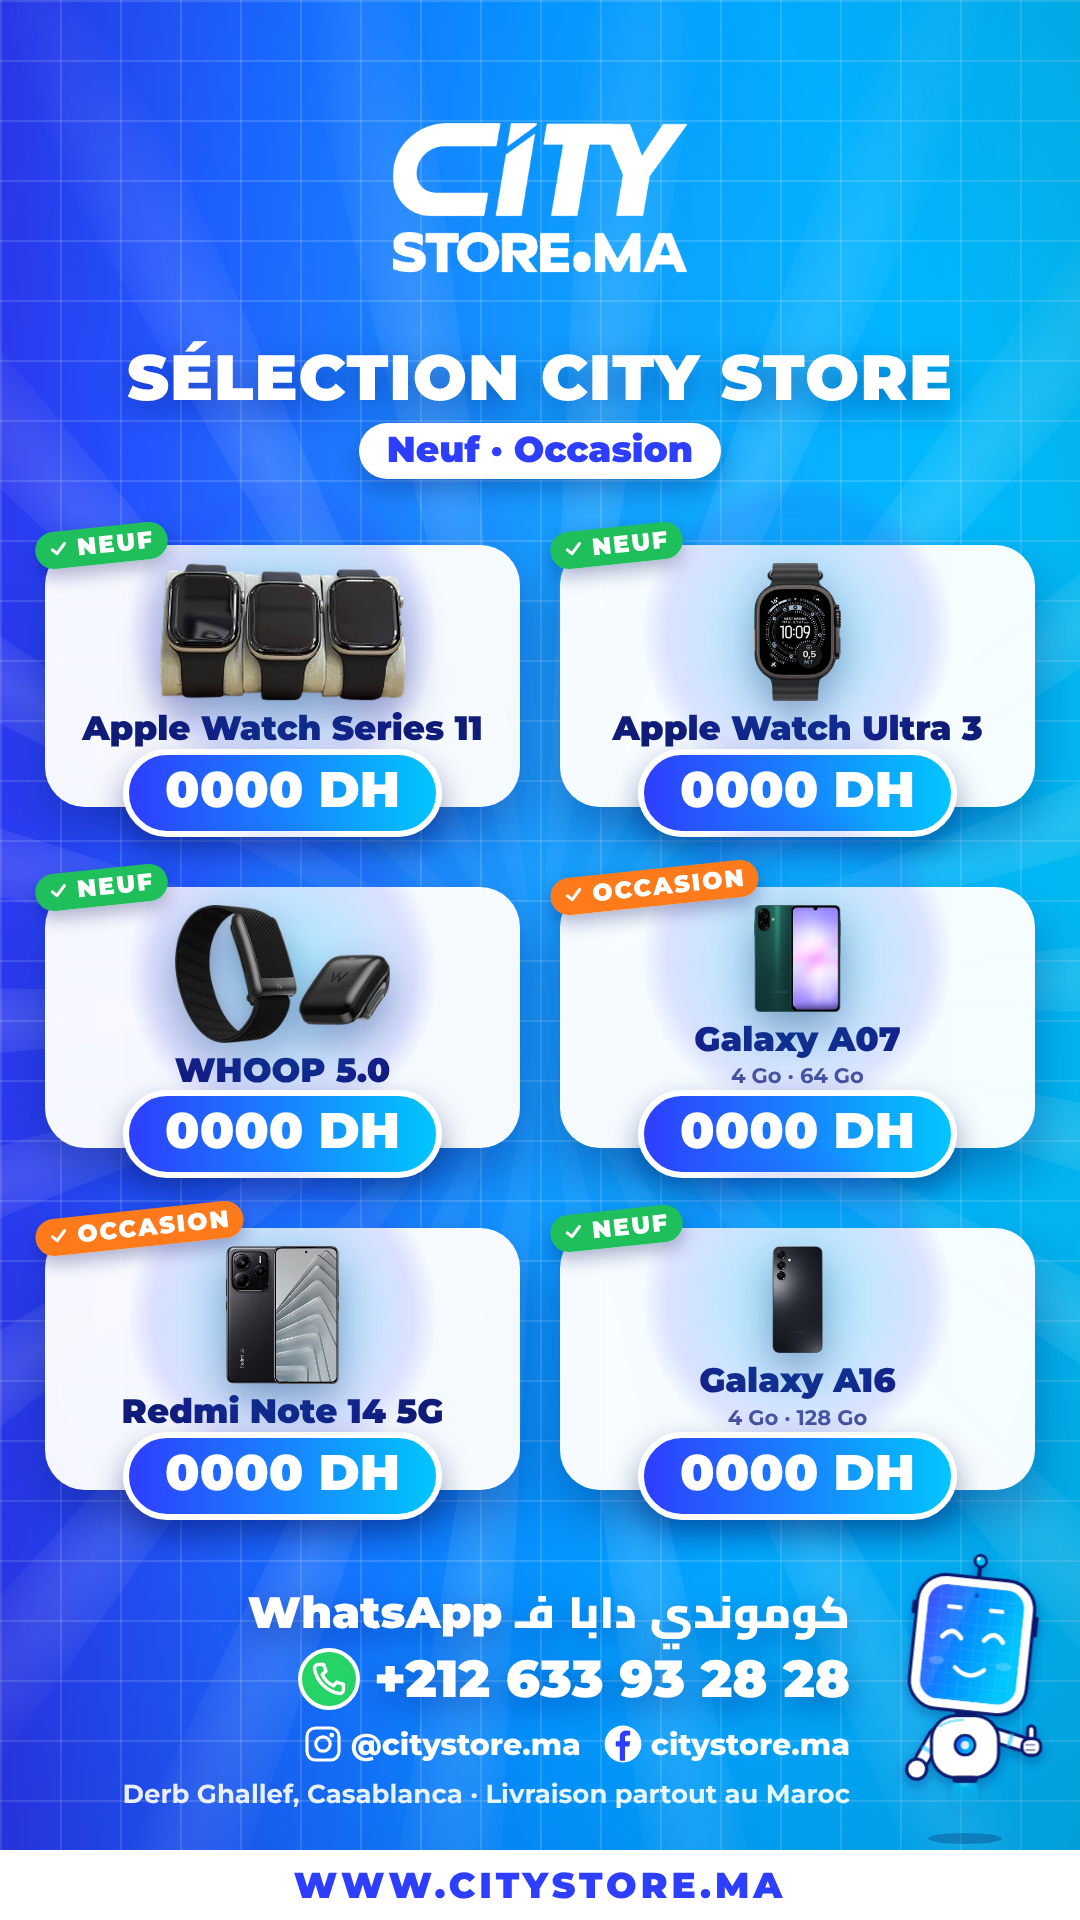
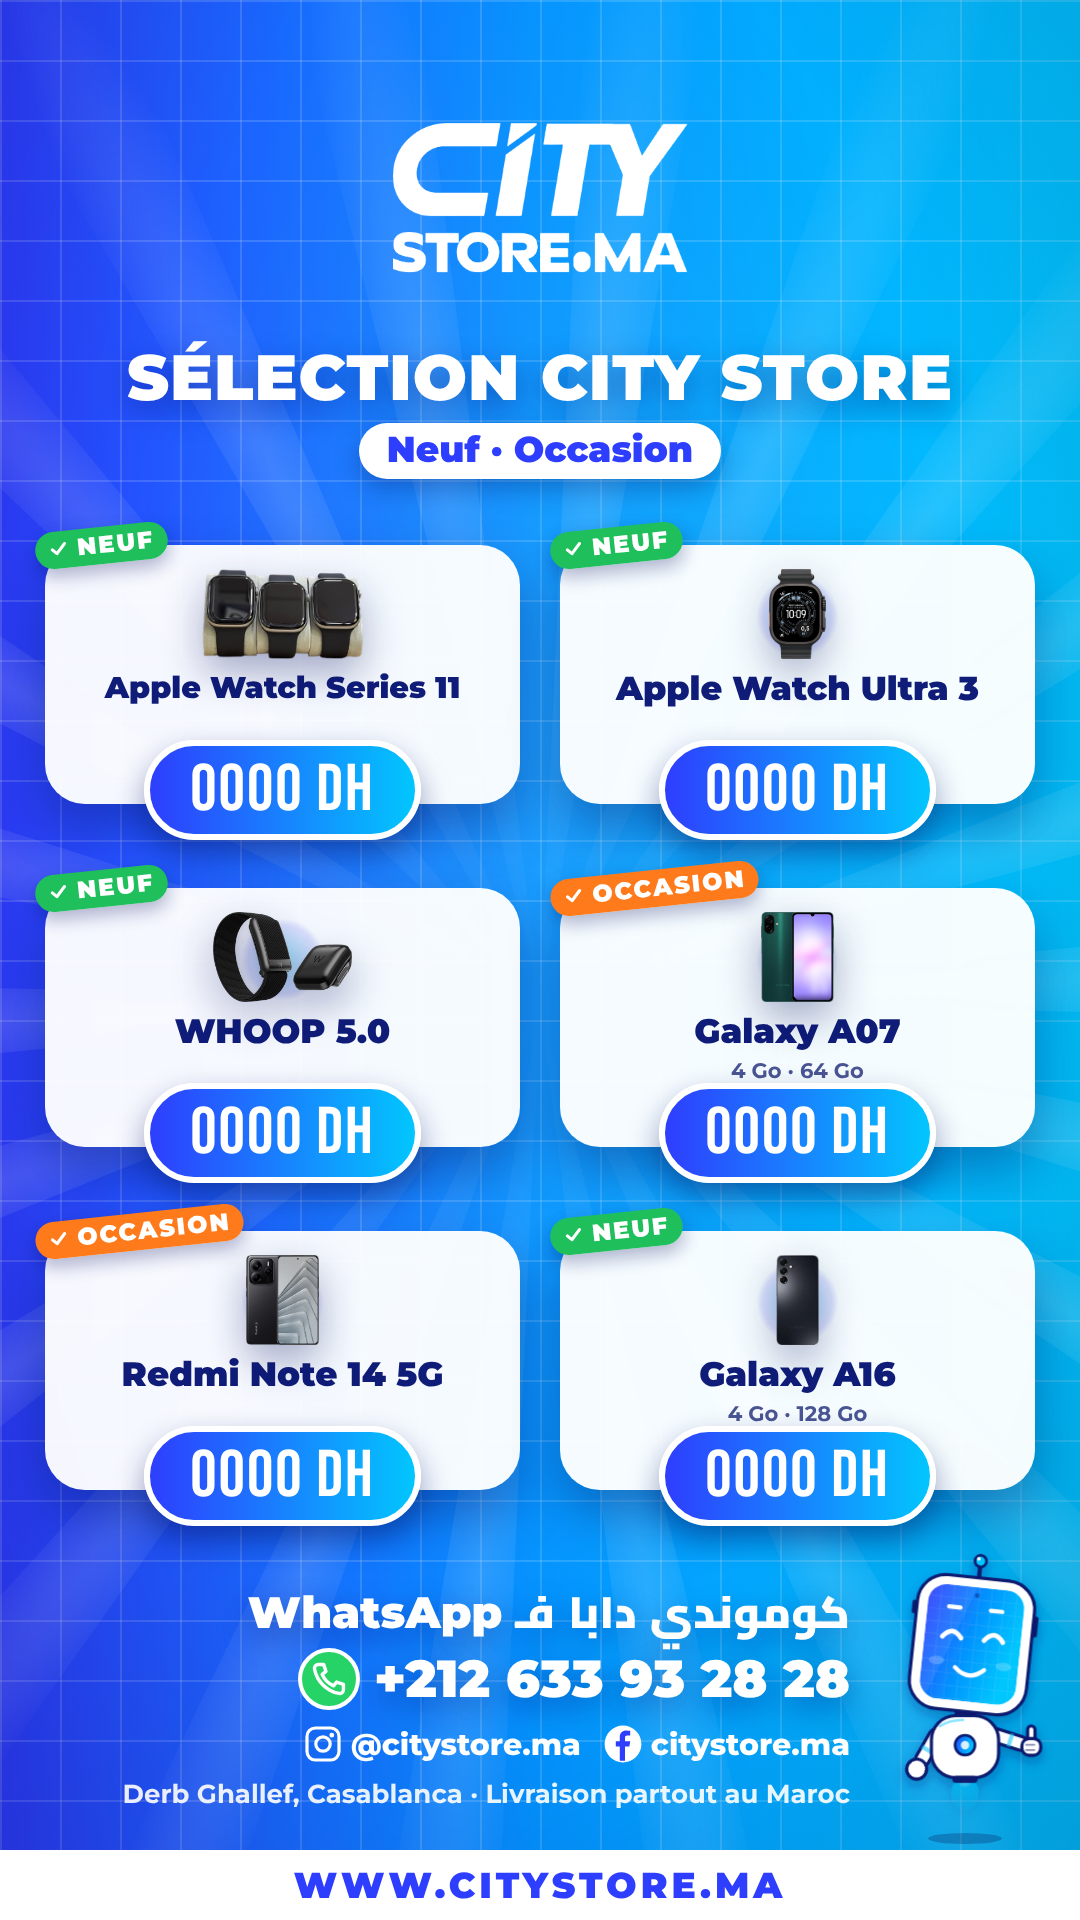
Price list: text back to Montserrat Black, prices in Bebas Neue, cards aligned row by row
Claude-Session: https://claude.ai/code/session_01B6UvVnyVQqoyQ1GwELGaCV

Changed region(s): [[0.0306, 0.2812, 0.4583, 0.8125], [0.5194, 0.2812, 0.9167, 0.8125]]

diff --git a/src/pricelist/PriceList.tsx b/src/pricelist/PriceList.tsx
@@ -1,6 +1,6 @@
 import React from "react";
 import { AbsoluteFill, Img, staticFile } from "remotion";
-import { COLORS, FONT_DISPLAY } from "../brand";
+import { COLORS, FONT, FONT_DISPLAY } from "../brand";
 import { BrandBackground } from "../components/BrandBackground";
 import { FacebookGlyph, LineIcon } from "../components/Icons";
 import { Burst } from "../components/SceneShell";
@@ -32,14 +32,13 @@ export type PriceListProps = {
   footnote?: string;
 };
 
-// Bebas Neue everywhere (Arabic falls back to Cairo); it is condensed, so sizes run ~1.3x Montserrat's
-const F = FONT_DISPLAY;
+// Text in Montserrat Black (Arabic falls back to Cairo); prices in Bebas Neue
 const GREEN = "#1FBF5B";
 const ORANGE = "#FF7A1A";
 const INK = "#0F1C78";
 
 const Condition: React.FC<{ c: "neuf" | "occasion"; size: number }> = ({ c, size }) => (
-  <div style={{ display: "inline-flex", alignItems: "center", gap: size * 0.25, background: c === "neuf" ? GREEN : ORANGE, color: "#fff", fontFamily: F, fontWeight: 900, fontSize: size, letterSpacing: 2, padding: `${size * 0.12}px ${size * 0.55}px ${size * 0.2}px ${size * 0.4}px`, borderRadius: 999 }}>
+  <div style={{ display: "inline-flex", alignItems: "center", gap: size * 0.25, background: c === "neuf" ? GREEN : ORANGE, color: "#fff", fontFamily: FONT, fontWeight: 900, fontSize: size, letterSpacing: 2, padding: `${size * 0.12}px ${size * 0.55}px ${size * 0.2}px ${size * 0.4}px`, borderRadius: 999 }}>
     <LineIcon name="check" size={size * 1.1} stroke={12} color="#fff" />
     {c === "neuf" ? "NEUF" : "OCCASION"}
   </div>
@@ -47,21 +46,28 @@ const Condition: React.FC<{ c: "neuf" | "occasion"; size: number }> = ({ c, size
 
 const Card: React.FC<{ it: PriceItem; w: number; h: number }> = ({ it, w, h }) => {
   const big = h > 420;
-  const nameSize = big ? 54 : 46;
   const priceSize = big ? 78 : 66;
+  // fixed rows so every card in a row lines up: photo slot (products stand on the same line), one name line, one
+  // spec line (kept empty when there is no spec), then the price tag
+  const nameMax = big ? 40 : 34;
+  const nameSize = Math.min(nameMax, (w - 44) / (it.name.length * 0.68));
+  const specSize = nameMax * 0.62;
+  const textH = nameMax * 1.15 + 6 + specSize * 1.3;
+  const padTop = 24, padBottom = priceSize * 0.95;
+  const slotH = h - padTop - padBottom - textH - 10;
   return (
-    <div style={{ position: "relative", width: w, height: h, background: "rgba(255,255,255,0.96)", borderRadius: 40, boxShadow: "0 24px 50px rgba(6,14,90,0.35)", display: "flex", flexDirection: "column", alignItems: "center", padding: `22px 18px ${priceSize * 1.05}px` }}>
-      {/* product photo on a soft brand glow; takes whatever height the text leaves */}
-      <div style={{ position: "relative", flex: 1, minHeight: 0, width: "100%", display: "flex", alignItems: "center", justifyContent: "center" }}>
-        <div style={{ position: "absolute", width: "70%", aspectRatio: "1", borderRadius: "50%", background: `radial-gradient(circle, ${COLORS.cyan}55 0%, ${COLORS.blue}22 60%, rgba(255,255,255,0) 72%)` }} />
-        <Img src={staticFile(it.img)} style={{ position: "relative", maxWidth: "92%", maxHeight: "100%", transform: `scale(${it.scale ?? 1}) rotate(${it.rotate ?? 0}deg)`, filter: "drop-shadow(0 16px 20px rgba(6,14,90,0.35))" }} />
+    <div style={{ position: "relative", width: w, height: h, background: "rgba(255,255,255,0.96)", borderRadius: 40, boxShadow: "0 24px 50px rgba(6,14,90,0.35)", display: "flex", flexDirection: "column", alignItems: "center", padding: `${padTop}px 18px ${padBottom}px` }}>
+      {/* product photo on a soft brand glow, standing on the bottom of its slot */}
+      <div style={{ position: "relative", height: slotH, width: "100%", display: "flex", alignItems: "flex-end", justifyContent: "center" }}>
+        <div style={{ position: "absolute", top: "8%", width: slotH * 0.9, height: slotH * 0.9, borderRadius: "50%", background: `radial-gradient(circle, ${COLORS.cyan}55 0%, ${COLORS.blue}22 60%, rgba(255,255,255,0) 72%)` }} />
+        <Img src={staticFile(it.img)} style={{ position: "relative", maxWidth: "92%", maxHeight: "100%", transformOrigin: "bottom center", transform: `scale(${it.scale ?? 1}) rotate(${it.rotate ?? 0}deg)`, filter: "drop-shadow(0 16px 20px rgba(6,14,90,0.35))" }} />
       </div>
-      <div style={{ marginTop: 10, textAlign: "center", fontFamily: F, fontWeight: 900, fontSize: nameSize, lineHeight: 1, letterSpacing: 1, color: INK }}>{it.name}</div>
-      {it.spec && <div style={{ marginTop: 6, fontFamily: F, fontWeight: 700, fontSize: nameSize * 0.6, letterSpacing: 1.5, color: "#4A5594" }}>{it.spec}</div>}
+      <div style={{ marginTop: 10, height: nameMax * 1.15, display: "flex", alignItems: "center", fontFamily: FONT, fontWeight: 900, fontSize: nameSize, lineHeight: 1, color: INK, whiteSpace: "nowrap" }}>{it.name}</div>
+      <div style={{ marginTop: 6, height: specSize * 1.3, fontFamily: FONT, fontWeight: 700, fontSize: specSize, lineHeight: 1.3, color: "#4A5594", whiteSpace: "nowrap" }}>{it.spec ?? ""}</div>
       {/* NEUF / OCCASION badge on the top-left corner */}
-      {it.condition && <div style={{ position: "absolute", top: -18, left: -10, transform: "rotate(-6deg)", boxShadow: "0 8px 18px rgba(6,14,90,0.3)", borderRadius: 999 }}><Condition c={it.condition} size={big ? 36 : 32} /></div>}
-      {/* price tag overlapping the bottom edge */}
-      <div style={{ position: "absolute", bottom: -priceSize * 0.55, background: `linear-gradient(90deg, ${COLORS.blue}, ${COLORS.cyan})`, color: "#fff", fontFamily: F, fontWeight: 900, fontSize: priceSize, lineHeight: 1, letterSpacing: 2, padding: "12px 40px 10px", borderRadius: 999, border: "6px solid #fff", boxShadow: "0 14px 30px rgba(6,14,90,0.4)", whiteSpace: "nowrap" }}>
+      {it.condition && <div style={{ position: "absolute", top: -18, left: -10, transform: "rotate(-6deg)", boxShadow: "0 8px 18px rgba(6,14,90,0.3)", borderRadius: 999 }}><Condition c={it.condition} size={big ? 28 : 24} /></div>}
+      {/* price tag (Bebas Neue) overlapping the bottom edge */}
+      <div style={{ position: "absolute", bottom: -priceSize * 0.55, background: `linear-gradient(90deg, ${COLORS.blue}, ${COLORS.cyan})`, color: "#fff", fontFamily: FONT_DISPLAY, fontWeight: 900, fontSize: priceSize, lineHeight: 1, letterSpacing: 2, padding: "12px 40px 10px", borderRadius: 999, border: "6px solid #fff", boxShadow: "0 14px 30px rgba(6,14,90,0.4)", whiteSpace: "nowrap" }}>
         {it.price}
       </div>
     </div>
@@ -76,7 +82,7 @@ export const PriceList: React.FC<PriceListProps> = ({ title, subtitle, items, wh
   const gridTop = header ? 545 : 370, gridBottom = 1490, gapX = 40, gapY = 84;
   const w = cols === 1 ? 640 : 475;
   const h = Math.min(600, (gridBottom - gridTop - gapY * (rows - 1)) / rows);
-  const heavy: React.CSSProperties = { fontFamily: F, fontWeight: 900, color: "#fff", lineHeight: 1, textShadow: "0 10px 30px rgba(8,20,110,0.4)", whiteSpace: "nowrap" };
+  const heavy: React.CSSProperties = { fontFamily: FONT, fontWeight: 900, color: "#fff", lineHeight: 1, textShadow: "0 10px 30px rgba(8,20,110,0.4)", whiteSpace: "nowrap" };
   return (
     <AbsoluteFill>
       <BrandBackground drift={false} />
@@ -88,9 +94,9 @@ export const PriceList: React.FC<PriceListProps> = ({ title, subtitle, items, wh
       </div>
       {/* title (optional) */}
       {header && <div style={{ position: "absolute", top: 345, left: 0, right: 0, display: "flex", flexDirection: "column", alignItems: "center", gap: 14 }}>
-        {title && <div style={{ ...heavy, fontSize: title.length > 16 ? 84 : 100, letterSpacing: 2 }}>{title}</div>}
+        {title && <div style={{ ...heavy, fontSize: title.length > 16 ? 64 : 78, letterSpacing: 1 }}>{title}</div>}
         {subtitle && (
-          <div dir="auto" style={{ background: "#fff", color: COLORS.blue, fontFamily: F, fontWeight: 900, fontSize: 44, letterSpacing: 1, padding: "6px 28px 4px", borderRadius: 999, boxShadow: "0 10px 26px rgba(6,14,90,0.3)", whiteSpace: "nowrap" }}>{subtitle}</div>
+          <div dir="auto" style={{ background: "#fff", color: COLORS.blue, fontFamily: FONT, fontWeight: 900, fontSize: 36, padding: "4px 28px 8px", borderRadius: 999, boxShadow: "0 10px 26px rgba(6,14,90,0.3)", whiteSpace: "nowrap" }}>{subtitle}</div>
         )}
       </div>}
       {/* products */}
@@ -106,19 +112,19 @@ export const PriceList: React.FC<PriceListProps> = ({ title, subtitle, items, wh
           <div style={{ width: 62, height: 62, borderRadius: "50%", background: "#25D366", display: "flex", alignItems: "center", justifyContent: "center", border: "4px solid #fff" }}>
             <LineIcon name="call" size={38} stroke={9} color="#fff" />
           </div>
-          <div style={{ ...heavy, fontSize: 70, letterSpacing: 2 }}>{whatsapp}</div>
+          <div style={{ ...heavy, fontSize: 52 }}>{whatsapp}</div>
         </div>
-        <div style={{ display: "flex", gap: 22, alignSelf: "flex-end", alignItems: "center", fontFamily: F, fontWeight: 800, fontSize: 40, letterSpacing: 1.5, color: "#fff" }}>
+        <div style={{ display: "flex", gap: 22, alignSelf: "flex-end", alignItems: "center", fontFamily: FONT, fontWeight: 800, fontSize: 30, color: "#fff" }}>
           <span style={{ display: "flex", alignItems: "center", gap: 8 }}><LineIcon name="instagram" size={40} stroke={8} />{SOCIAL.instagram}</span>
           <span style={{ display: "flex", alignItems: "center", gap: 8 }}><FacebookGlyph size={40} />{SOCIAL.facebook}</span>
         </div>
-        <div style={{ alignSelf: "flex-end", fontFamily: F, fontWeight: 700, fontSize: 34, letterSpacing: 1.5, color: "rgba(255,255,255,0.9)" }}>{footnote}</div>
+        <div style={{ alignSelf: "flex-end", fontFamily: FONT, fontWeight: 700, fontSize: 26, color: "rgba(255,255,255,0.9)" }}>{footnote}</div>
       </div>
       <div style={{ position: "absolute", right: 10, top: 1555 }}>
         <Citybot id="pricelist" width={210} expression="happy" mouth="smile" tilt={6} rightArm={{ rot: 72, hand: "thumb" }} leftArm={{ rot: 30, hand: "open" }} hover={8} />
       </div>
       {/* website bar */}
-      <div style={{ position: "absolute", bottom: 0, left: 0, right: 0, height: 70, background: "#fff", display: "flex", alignItems: "center", justifyContent: "center", fontFamily: F, fontWeight: 900, fontSize: 48, color: COLORS.blue, letterSpacing: 6, paddingTop: 4 }}>
+      <div style={{ position: "absolute", bottom: 0, left: 0, right: 0, height: 70, background: "#fff", display: "flex", alignItems: "center", justifyContent: "center", fontFamily: FONT, fontWeight: 900, fontSize: 36, color: COLORS.blue, letterSpacing: 4 }}>
         WWW.CITYSTORE.MA
       </div>
     </AbsoluteFill>

diff --git a/src/pricelist/lists.ts b/src/pricelist/lists.ts
@@ -34,7 +34,7 @@ export const PRICE_LISTS: Record<string, PriceListProps> = {
       { name: "AirPods 2", img: "pricelist/airpods/airpods2.png", price: "1100 DH", condition: "neuf" },
       // AirPods 4 and 4 ANC look the same: the two renders from the AirPods reel (open / buds in) tell them apart
       { name: "AirPods 4", img: "airpods5b/products/open.png", price: "1450 DH", condition: "neuf" },
-      { name: "AirPods 4 ANC", img: "airpods5b/products/case.png", price: "1850 DH", condition: "neuf", spec: "Réduction de bruit active" },
+      { name: "AirPods 4 ANC", img: "airpods5b/products/case.png", price: "1850 DH", condition: "neuf", spec: "Réduction de bruit active", scale: 0.82 },
     ],
   },
 };

diff --git a/README.md b/README.md
@@ -47,7 +47,7 @@ npm run studio                   # interactive preview
   citystore.ma, hashtags. Minimal emojis: only 📩 (CTA) and 🌐 (site).
 
 ## Price-list stories (9:16 stills)
-`src/pricelist/PriceList.tsx` is a City Store price-list story (font: Bebas Neue, SIL OFL; Arabic in Cairo): logo, optional title + subtitle pill, 2-6 product cards
+`src/pricelist/PriceList.tsx` is a City Store price-list story (text in Montserrat Black, prices in Bebas Neue (SIL OFL); Arabic in Cairo; cards in a row line up: photo baseline, name, spec, price): logo, optional title + subtitle pill, 2-6 product cards
 (official cut-out, name, optional spec line, NEUF / OCCASION badge, price), the WhatsApp number, socials, address and
 `WWW.CITYSTORE.MA`. Add an entry to `src/pricelist/lists.ts` (one per story), then run
 `npx remotion still PriceList-<id> out/pricelist/<id>.png`. Layout: 1-2 items use one row, 3-4 use 2x2, 5-6 use 2x3.
